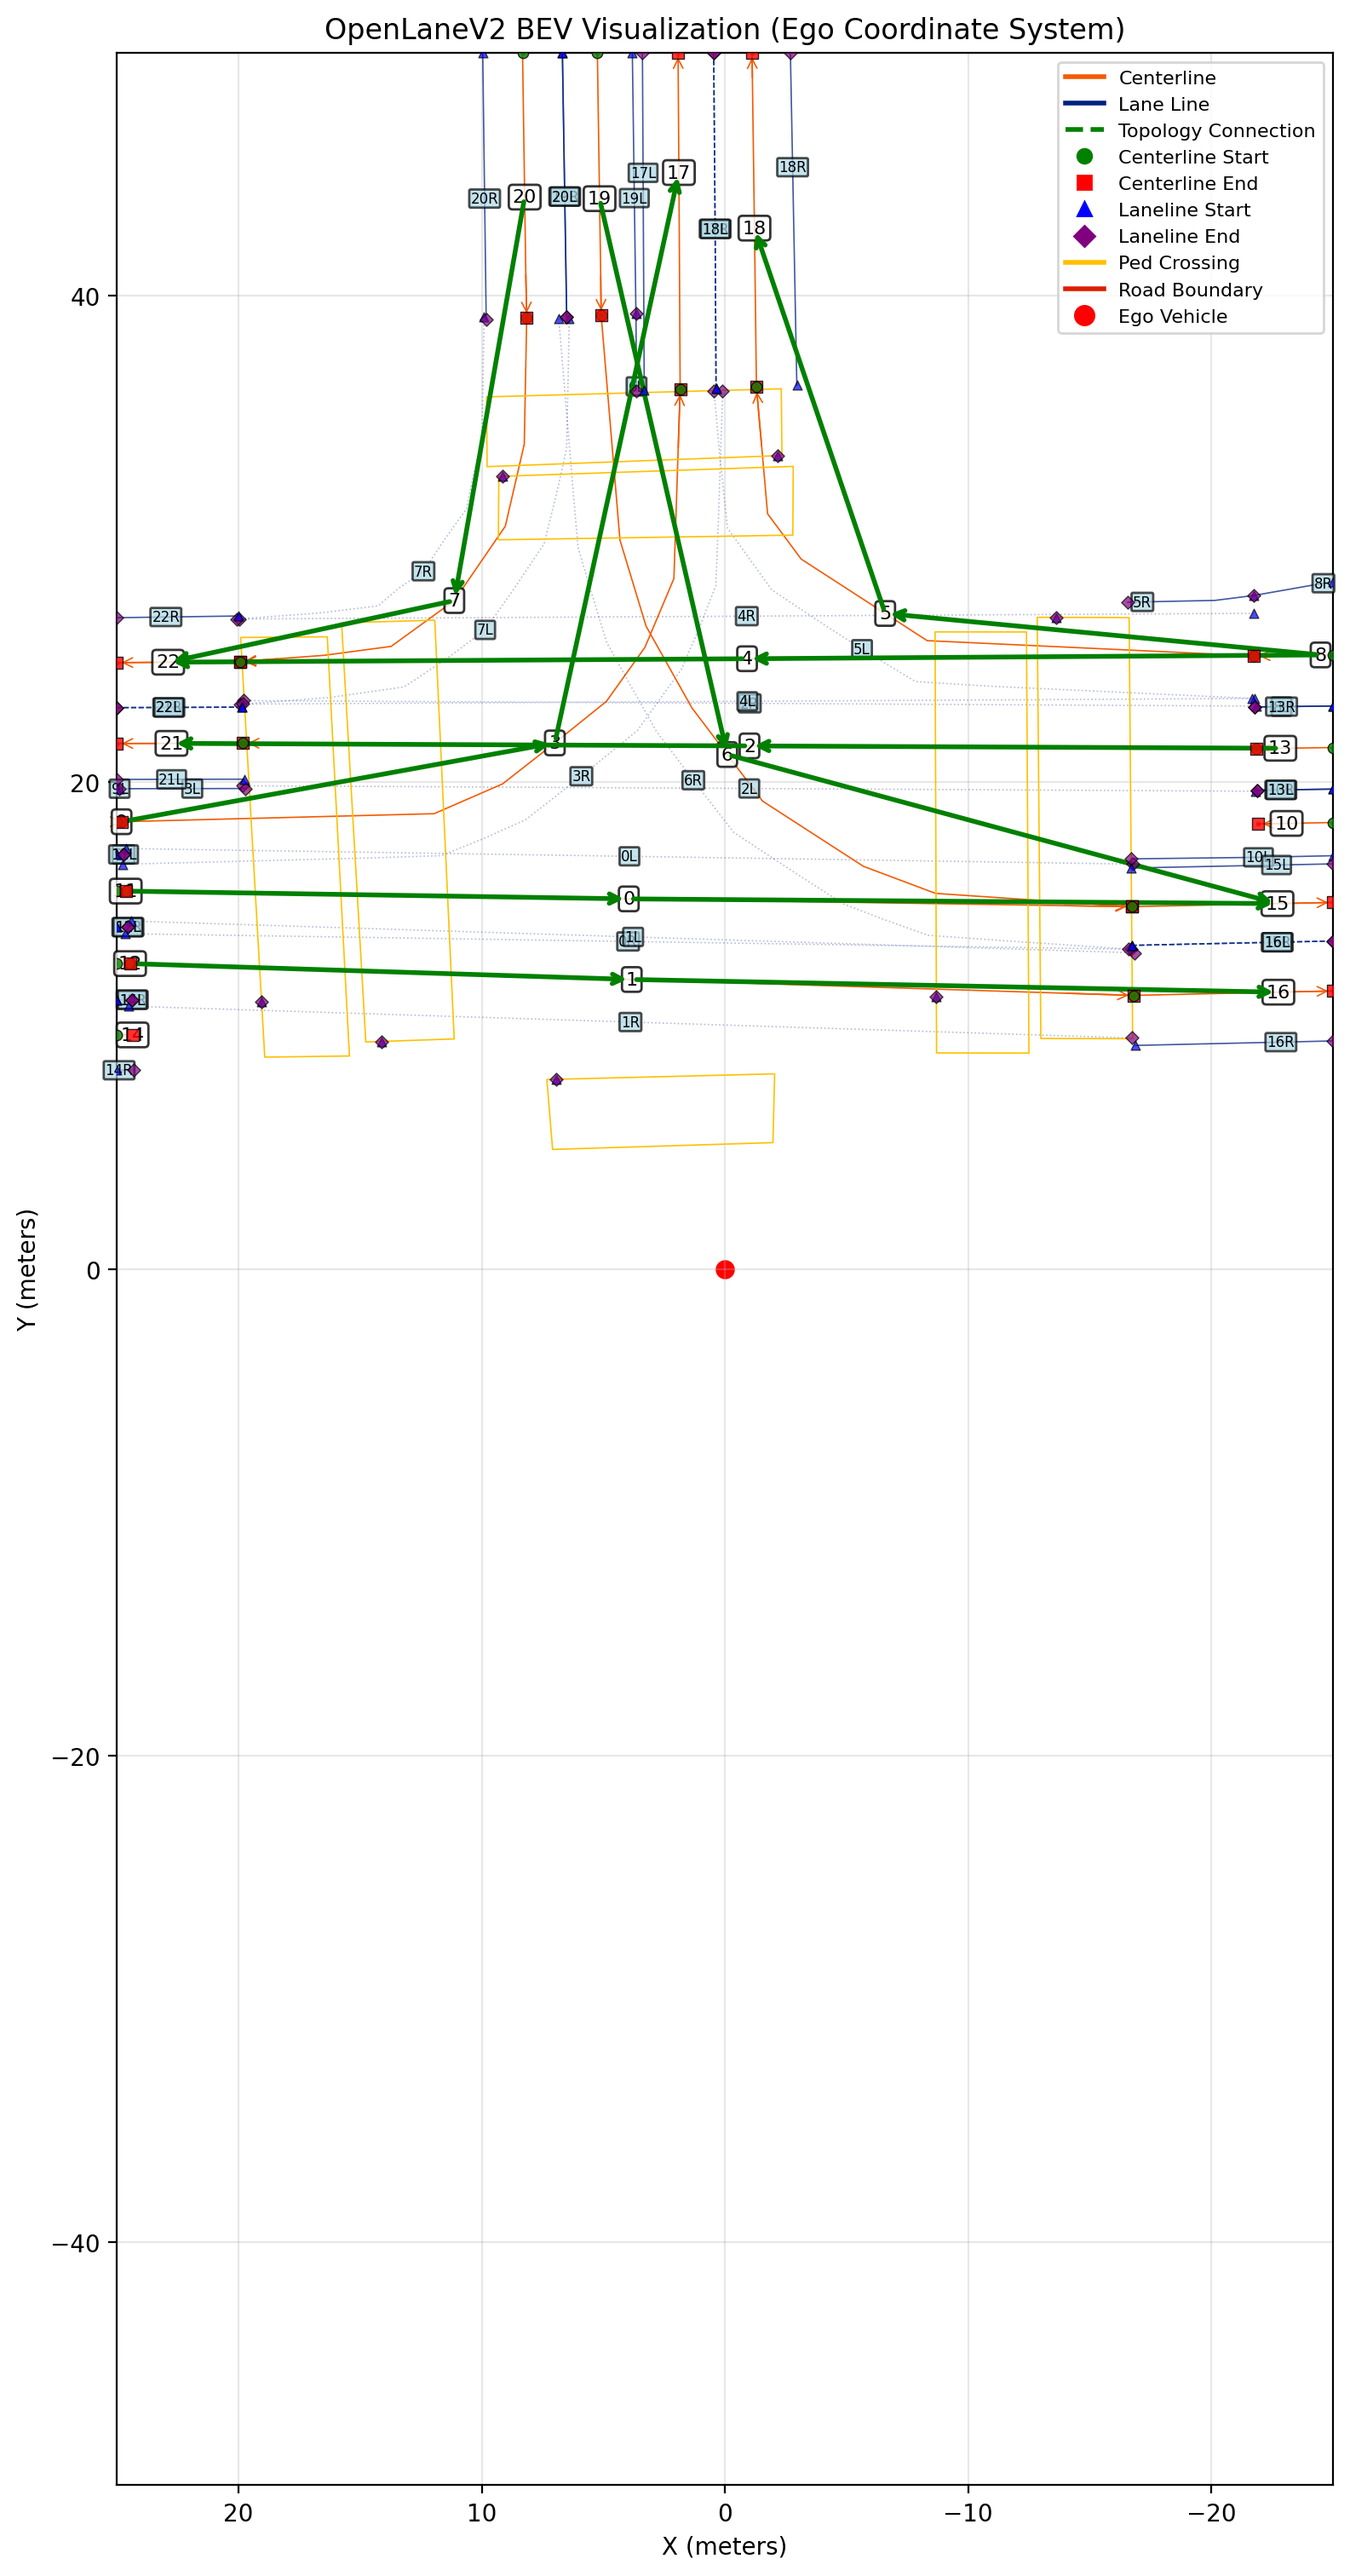
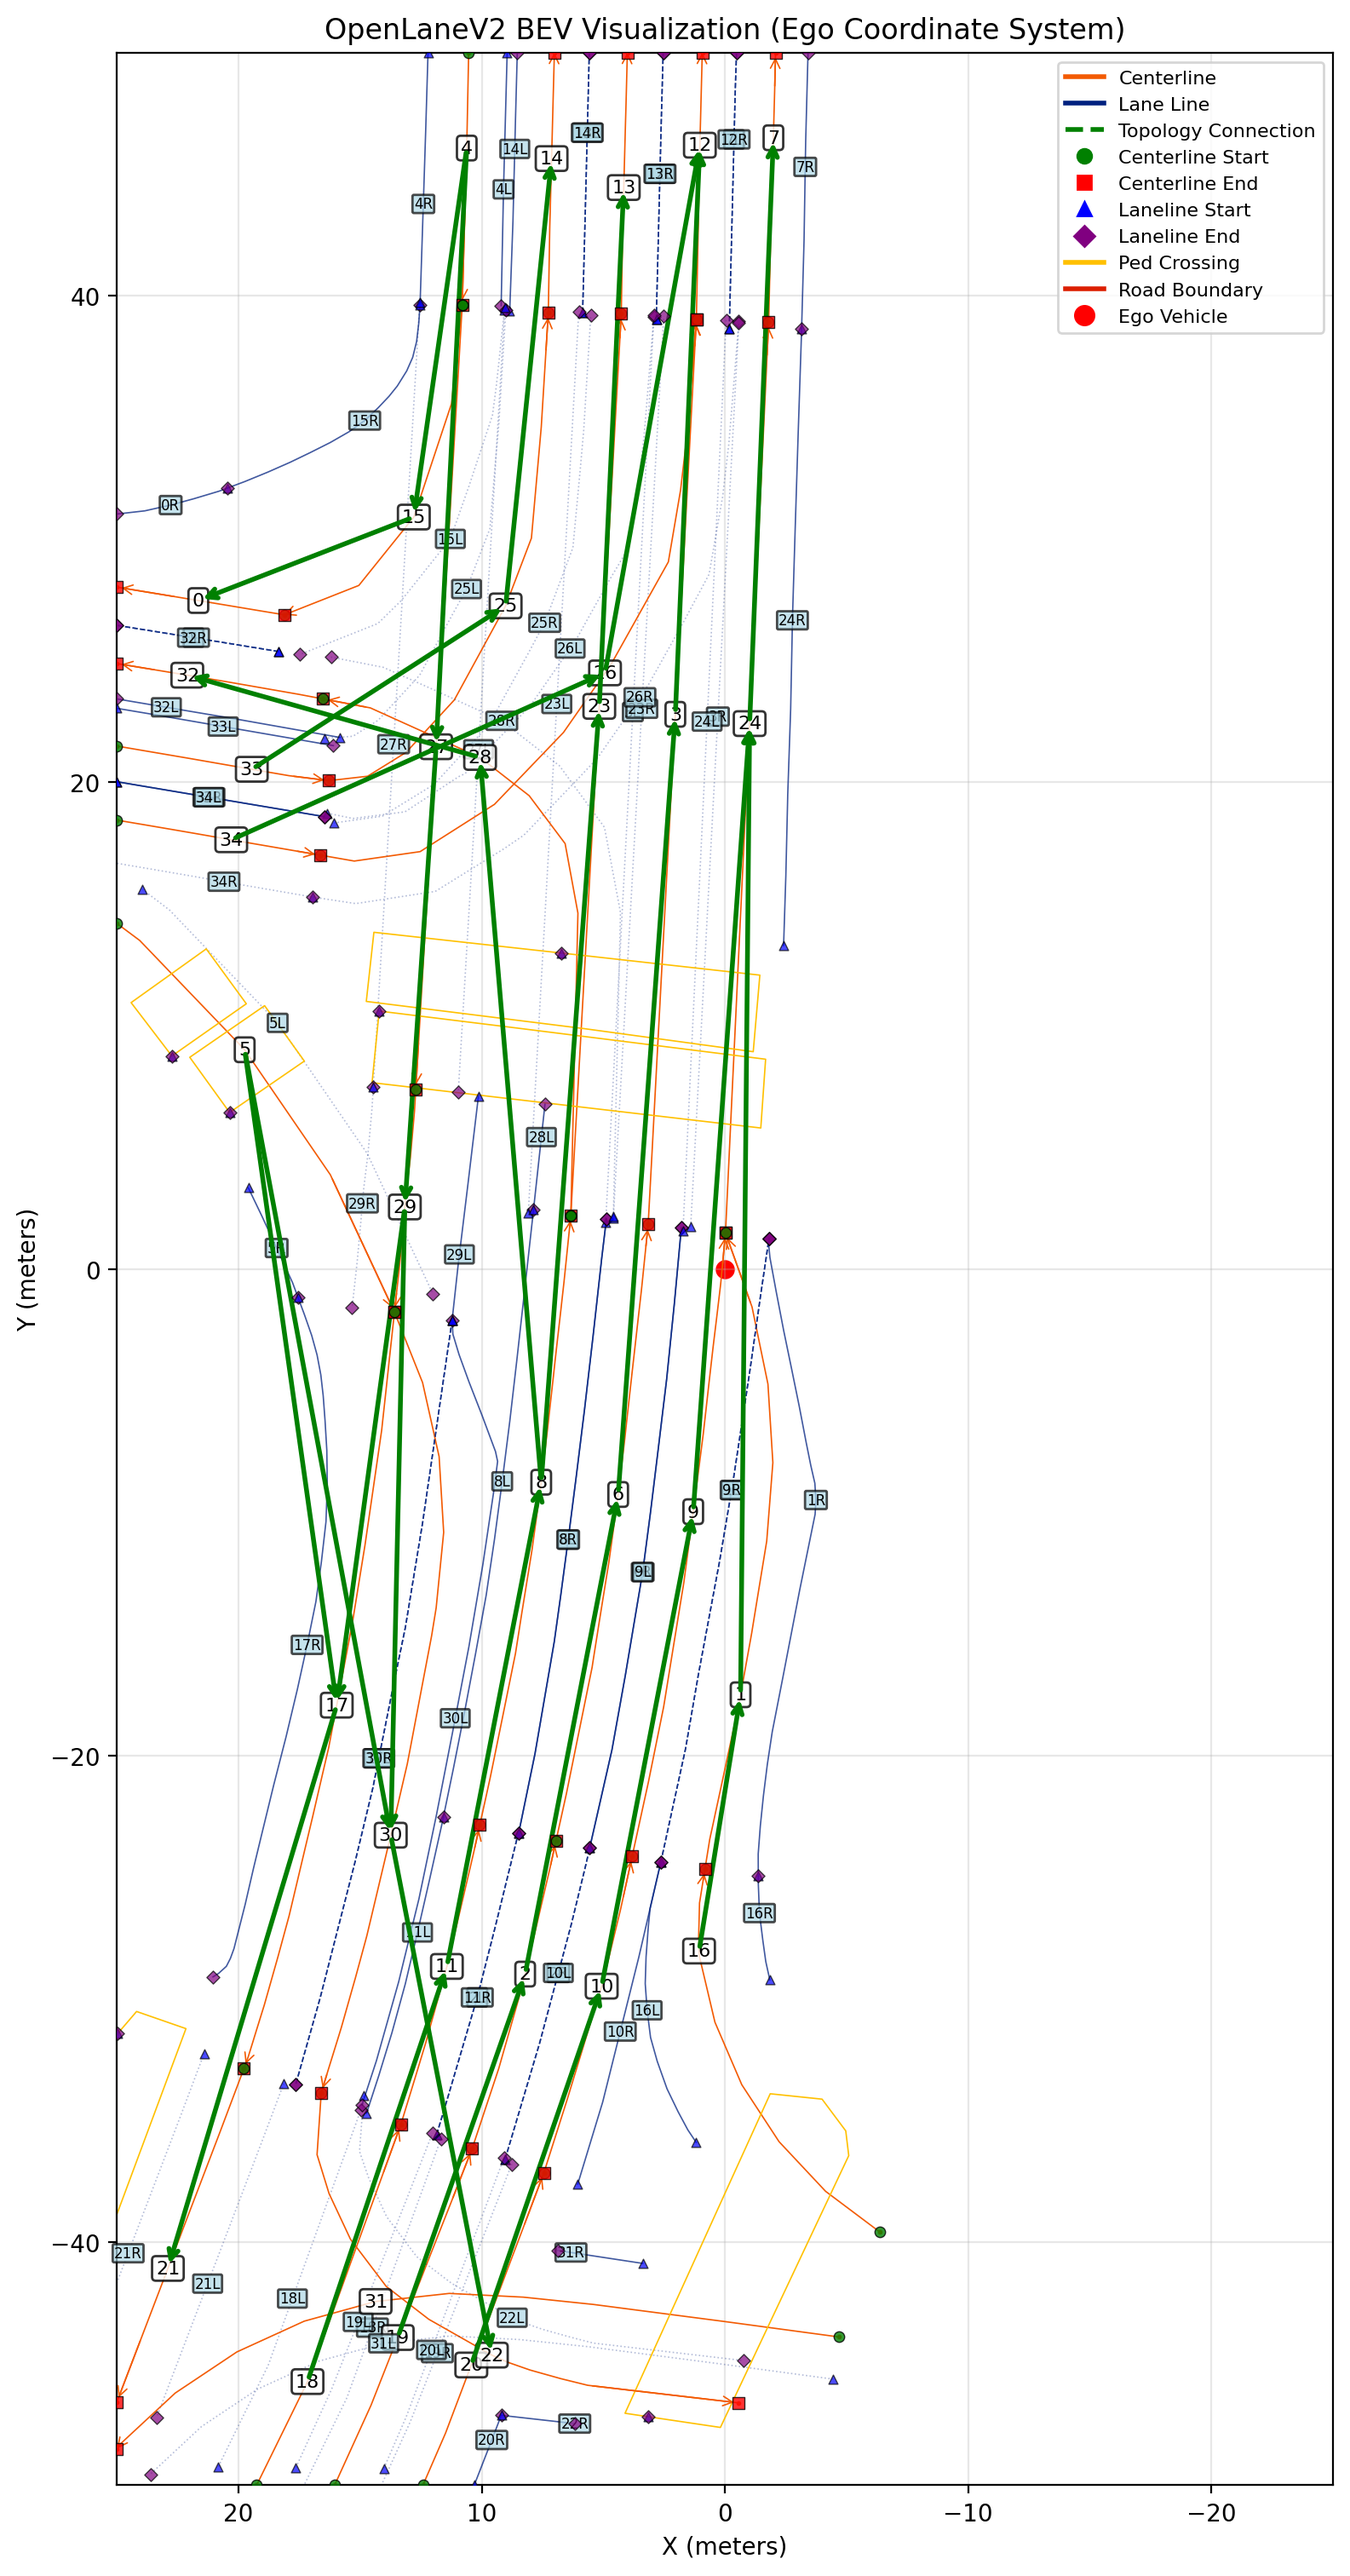
v1.1.0-inhouse: YAML Config support and parameter externalization
Changes:
- YAML config file support (--config option)
- All parameters externally configurable (utils/config/default_config.yaml)
- CLI arguments override config file settings
- DEFAULT constants refactored (NGII_VIEW_WIDTH, NGII_VIEW_LENGTH, NGII_FRONT_RATIO)
- README updated: usage guide and configuration documentation

diff --git a/utils/ROS2_Converter_streaming.py b/utils/ROS2_Converter_streaming.py
@@ -13,7 +13,7 @@ from concurrent.futures import ThreadPoolExecutor, ProcessPoolExecutor, Future, 
 from dataclasses import dataclass
 from pathlib import Path
 import shutil
-from typing import Deque, Dict, List, Optional
+from typing import Any, Deque, Dict, List, Optional, Tuple
 import os
 
 import cv2  # type: ignore
@@ -862,11 +862,35 @@ class StreamingROS2OpenLaneConverter(ROS2OpenLaneConverter):
 		path.write_bytes(data)
 
 
+def _load_config_from_yaml(config_path: Path) -> Dict[str, Any]:
+	"""Load configuration from YAML file."""
+	if not config_path.exists():
+		raise FileNotFoundError(f"Config file not found: {config_path}")
+	
+	with open(config_path, "r", encoding="utf-8") as f:
+		config_dict = yaml.safe_load(f) or {}
+	
+	# Convert string paths to Path objects
+	path_keys = ["bag_path", "output_root", "calibration_file", "ngii_utils_dir", "ngii_default_shp_base"]
+	for key in path_keys:
+		if key in config_dict and config_dict[key] is not None:
+			config_dict[key] = Path(config_dict[key])
+	
+	return config_dict
+
+
 def _parse_arguments(argv: Optional[List[str]] = None) -> argparse.Namespace:
 	parser = argparse.ArgumentParser(description="Streaming ROS2 bag → OpenLaneV2 exporter")
 	parser.add_argument(
+		"--config",
+		type=Path,
+		default=None,
+		help="Path to YAML configuration file.",
+	)
+	parser.add_argument(
 		"--json-only",
 		action="store_true",
+		default=None,
 		help="Skip converting image files and only emit info/metadata outputs.",
 	)
 	parser.add_argument(
@@ -878,7 +902,7 @@ def _parse_arguments(argv: Optional[List[str]] = None) -> argparse.Namespace:
 	parser.add_argument(
 		"--parallel-bags",
 		type=int,
-		default=1,
+		default=None,
 		help="Number of bags to process in parallel (default: 1).",
 	)
 	parser.add_argument(
@@ -887,23 +911,77 @@ def _parse_arguments(argv: Optional[List[str]] = None) -> argparse.Namespace:
 		default=None,
 		help="Path to the bag directory or root folder containing bags.",
 	)
+	parser.add_argument(
+		"--output-root",
+		type=Path,
+		default=None,
+		help="Output root directory.",
+	)
+	parser.add_argument(
+		"--split-name",
+		type=str,
+		default=None,
+		help="Split name (train/val/test).",
+	)
+	parser.add_argument(
+		"--max-frames",
+		type=int,
+		default=None,
+		dest="max_frames_per_camera",
+		help="Maximum frames per camera.",
+	)
 	return parser.parse_args(argv)
+
+
+def _build_config_from_args_and_yaml(args: argparse.Namespace) -> Tuple[ConverterConfig, int]:
+	"""Build ConverterConfig from YAML and CLI arguments. CLI takes precedence."""
+	
+	# Start with defaults
+	config_dict: Dict[str, Any] = {}
+	parallel_bags = 1
+	
+	# Load from YAML if provided
+	if args.config is not None:
+		yaml_config = _load_config_from_yaml(args.config)
+		
+		# Extract streaming-specific settings
+		if "workers" in yaml_config:
+			config_dict["stream_workers"] = yaml_config.pop("workers")
+		if "parallel_bags" in yaml_config:
+			parallel_bags = yaml_config.pop("parallel_bags")
+		
+		config_dict.update(yaml_config)
+	
+	# CLI arguments override YAML (only if explicitly provided)
+	if args.json_only is not None and args.json_only:
+		config_dict["json_only"] = True
+	if args.workers is not None:
+		config_dict["stream_workers"] = args.workers
+	if args.parallel_bags is not None:
+		parallel_bags = args.parallel_bags
+	if args.bag_path is not None:
+		config_dict["bag_path"] = args.bag_path
+	if args.output_root is not None:
+		config_dict["output_root"] = args.output_root
+	if args.split_name is not None:
+		config_dict["split_name"] = args.split_name
+	if args.max_frames_per_camera is not None:
+		config_dict["max_frames_per_camera"] = args.max_frames_per_camera
+	
+	# Create config, filtering None values
+	filtered_config = {k: v for k, v in config_dict.items() if v is not None}
+	config = ConverterConfig(**filtered_config)
+	
+	return config, parallel_bags
 
 
 def main(argv: Optional[List[str]] = None) -> int:
 	args = _parse_arguments(argv)
 	
-	# Build config kwargs, filtering out None values to let defaults shine
-	config_kwargs = {
-		"json_only": args.json_only,
-		"stream_workers": args.workers,
-	}
-	if args.bag_path is not None:
-		config_kwargs["bag_path"] = args.bag_path
-
-	config = ConverterConfig(**config_kwargs)
-	# Monkey-patch config to add bag parallelism since it's not in the base class definition
-	setattr(config, "stream_bag_parallelism", args.parallel_bags)
+	config, parallel_bags = _build_config_from_args_and_yaml(args)
+	
+	# Set bag parallelism
+	setattr(config, "stream_bag_parallelism", parallel_bags)
 	
 	converter = StreamingROS2OpenLaneConverter(config)
 	return converter.run()

diff --git a/utils/ros_converter/ROS2_Converter.py b/utils/ros_converter/ROS2_Converter.py
@@ -93,6 +93,9 @@ DEFAULT_RECTIFY_IMAGES = True
 DEFAULT_STATIONARY_SKIP_ENABLE = True
 DEFAULT_STATIONARY_SKIP_WINDOW_S = 3.0
 DEFAULT_STATIONARY_MOVEMENT_THRESHOLD_M = 0.5
+DEFAULT_NGII_VIEW_WIDTH = 50.0
+DEFAULT_NGII_VIEW_LENGTH = 100.0
+DEFAULT_NGII_FRONT_RATIO = 0.5
 STAGING_SUBDIR_NAME = "__stage__"
 CAMERA_SEQUENCE = [
 	"UDP_GMSL_BL",
@@ -121,9 +124,9 @@ class ConverterConfig:
 	enable_annotations: bool = DEFAULT_NGII_ENABLE_ANNOTATIONS
 	ngii_utils_dir: Path = NGII_UTILS_DIR
 	ngii_default_shp_base: Optional[Path] = None  # None이면 city_name 기반으로 자동 결정
-	ngii_view_width: float = 50.0
-	ngii_view_length: float = 100.0
-	ngii_front_ratio: float = 0.5
+	ngii_view_width: float = DEFAULT_NGII_VIEW_WIDTH
+	ngii_view_length: float = DEFAULT_NGII_VIEW_LENGTH
+	ngii_front_ratio: float = DEFAULT_NGII_FRONT_RATIO
 	rectify_images: bool = DEFAULT_RECTIFY_IMAGES
 	trajectory_enable: bool = DEFAULT_TRAJECTORY_ENABLE
 	trajectory_horizon_distance_m: float = DEFAULT_TRAJECTORY_HORIZON_DISTANCE_M

diff --git a/README.md b/README.md
@@ -41,6 +41,17 @@ Dataset/
 ```
 
 ## Quick Start
+
+### Using YAML Config (Recommended)
+```bash
+# Run with config file
+python utils/ROS2_Converter_streaming.py --config utils/config/default_config.yaml
+
+# Override specific parameters via CLI
+python utils/ROS2_Converter_streaming.py --config utils/config/default_config.yaml --workers 8 --json-only
+```
+
+### Using Python API
 ```python
 from ros_converter.ROS2_Converter import ROS2OpenLaneConverter, ConverterConfig
 
@@ -53,6 +64,54 @@ config = ConverterConfig(
 converter = ROS2OpenLaneConverter(config)
 converter.run()
 ```
+
+## Configuration
+
+### YAML Config File (`utils/config/default_config.yaml`)
+```yaml
+# Paths
+bag_path: "/media/iismn/SSD A/Dataset/inhouse/Dataset/ROSBag_Info"
+output_root: "/home/iismn/Workspace_Share/IEEE_CVF_CVPR/Inhouse_V7"
+calibration_file: "/media/iismn/SSD A/Dataset/inhouse/Dataset/Vehicle_Info/calib.yaml"
+
+# General Settings
+split_name: "train"
+city_name: null  # null = auto-detect from bag path
+jpeg_quality: 100
+max_frames_per_camera: null
+json_only: false
+
+# NGII Annotation Settings
+enable_annotations: true
+ngii_view_width: 50.0
+ngii_view_length: 100.0
+ngii_front_ratio: 0.5
+
+# Trajectory Settings
+trajectory_enable: true
+trajectory_horizon_distance_m: 50.0
+
+# Stationary Skip
+stationary_skip_enable: true
+stationary_skip_window_s: 3.0
+stationary_movement_threshold_m: 0.5
+
+# Streaming Settings
+workers: 16
+parallel_bags: 6
+```
+
+### CLI Arguments
+| Argument | Description |
+|----------|-------------|
+| `--config` | Path to YAML config file |
+| `--json-only` | Skip image conversion, JSON only |
+| `--workers` | Worker threads per bag |
+| `--parallel-bags` | Number of bags to process in parallel |
+| `--bag-path` | Override bag path |
+| `--output-root` | Override output directory |
+| `--split-name` | Split name (train/val/test) |
+| `--max-frames` | Max frames per camera |
 
 ## Configuration Parameters
 | Parameter | Default | Description |
@@ -120,7 +179,13 @@ rclpy
 
 ## Changelog
 
-### v1.0.0-inhouse (Current)
+### v1.1.0-inhouse (Current)
+- YAML config file support (`--config` option)
+- All parameters externally configurable
+- CLI arguments override config file settings
+- DEFAULT constants refactored and organized
+
+### v1.0.0-inhouse
 - Lane boundary continuous merge logic
 - `is_intersection_or_connector`: `true` when `linktype == 1`
 - Lane ID: link ID only (no boundary ID suffix)
@@ -128,10 +193,13 @@ rclpy
 - `lane_type == 0` (none) boundary filtering
 - City-based SHP auto-selection (Yeouido/Sangam)
 
-### v0.x (Previous Training)
-- Separate segment per boundary combination
+### v0.9.0-inhouse
+- V6 compatibility restored: output format matches original training data
+- Lane ID format: `{link_id}_LB{mark_id}_RB{mark_id}` (B prefix removed)
 - `is_intersection_or_connector`: always `false`
-- Lane ID: `{link_id}_LB{left_boundary}_RB{right_boundary}` format
+- Z coordinates: fixed to 0.0
+- Empty lanelines: empty array `[]` instead of virtual lanelines
+- Separate segment per boundary combination
 
 ## License
 Released under the MIT License.
